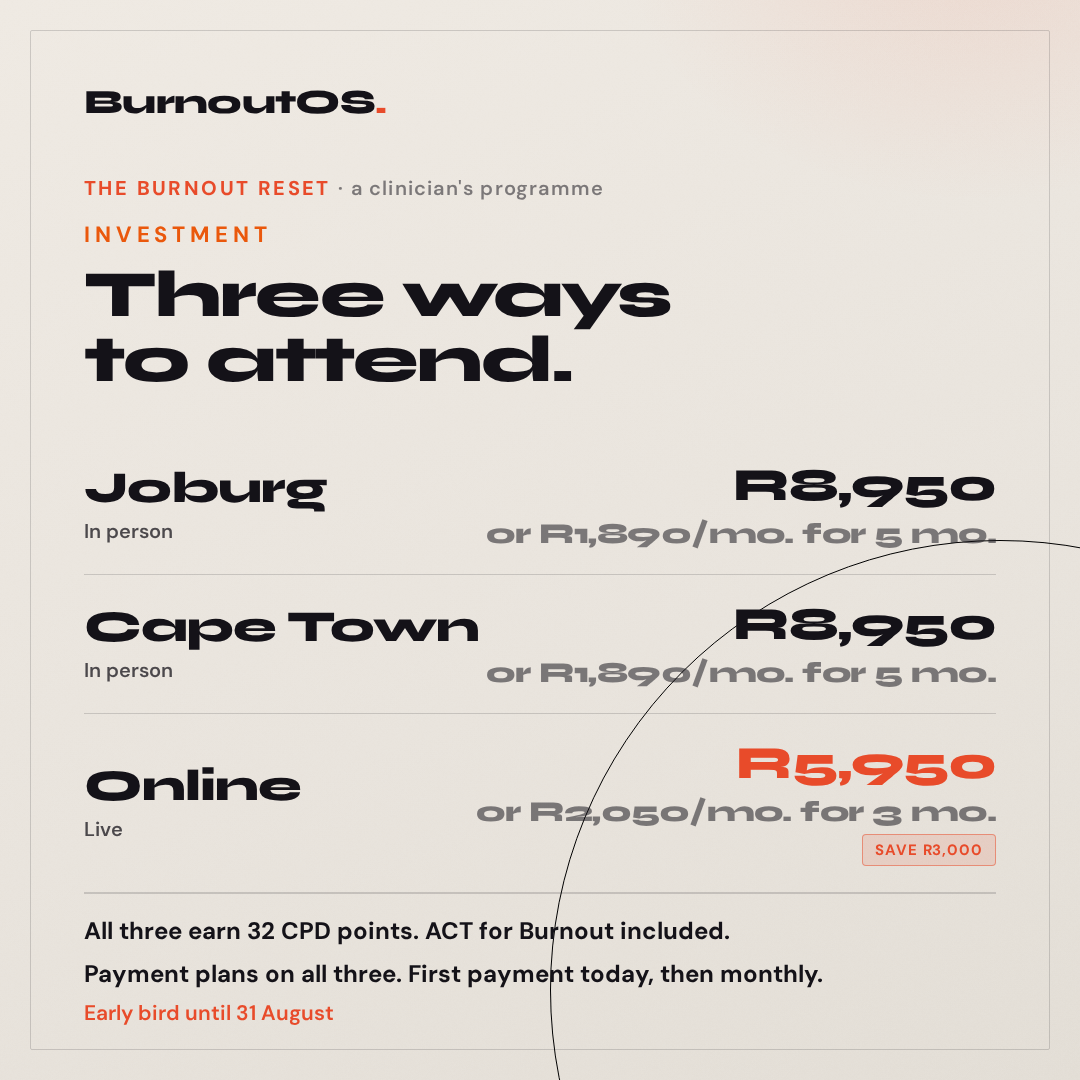
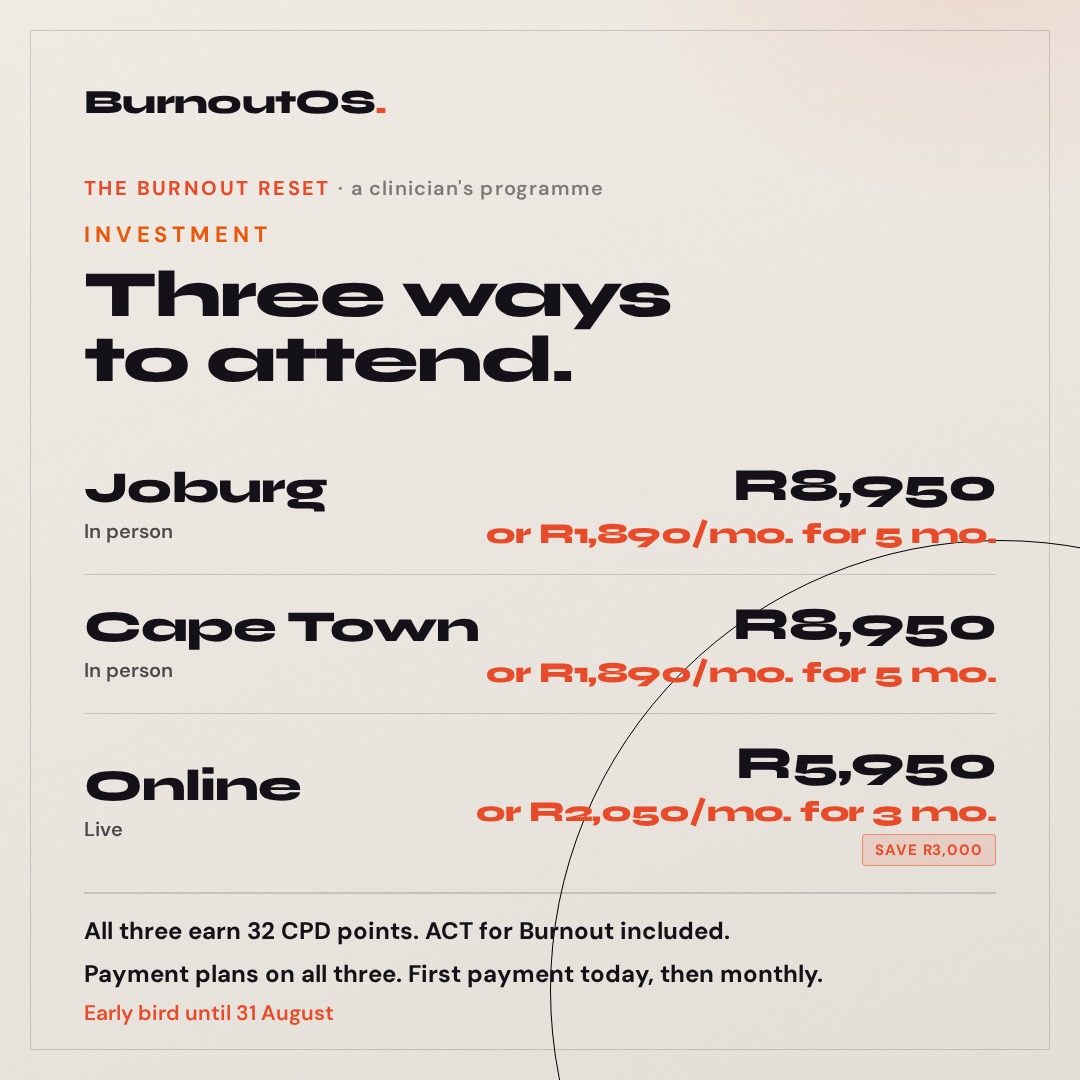
Two-colour pricing: prices in ink, financing in ember
Ember now carries one meaning on this card, the payment plan, so the
financing column reads at a glance without competing with the price.

The online price moves from ember to ink as part of that. Ember cannot
mean both cheapest option and payment plan on the same card without the
online row going entirely orange. The Save R3,000 chip still marks the
online saving and R5,950 is visibly the smaller figure.

Changed region(s): [[0.4278, 0.6722, 0.9167, 0.7639], [0.4583, 0.6111, 0.9167, 0.6417], [0.4583, 0.4889, 0.9167, 0.5194]]

diff --git a/src/posters/sa-carousel-source.html b/src/posters/sa-carousel-source.html
@@ -242,21 +242,21 @@ body{background:#2a2a2a;}
         <div style="font-family:'Syne';font-weight:800;font-size:44px;letter-spacing:-0.025em;color:var(--fg);line-height:1">Joburg</div>
         <div style="font-family:'DM Sans';font-weight:600;font-size:20px;color:var(--fg-mut);margin-top:8px">In person</div>
       </div>
-      <div style="text-align:right"><div style="font-family:'Syne';font-weight:800;font-size:46px;letter-spacing:-0.02em;color:var(--fg);line-height:1">R8,950</div><div style="font-family:'Syne';font-weight:800;font-size:29px;letter-spacing:-0.02em;color:var(--fg-dim);line-height:1;margin-top:11px;white-space:nowrap">or R1,890/mo. for 5 mo.</div></div>
+      <div style="text-align:right"><div style="font-family:'Syne';font-weight:800;font-size:46px;letter-spacing:-0.02em;color:var(--fg);line-height:1">R8,950</div><div style="font-family:'Syne';font-weight:800;font-size:29px;letter-spacing:-0.02em;color:var(--ember);line-height:1;margin-top:11px;white-space:nowrap">or R1,890/mo. for 5 mo.</div></div>
     </div>
     <div style="display:flex;align-items:center;justify-content:space-between;padding:26px 0;border-bottom:1px solid var(--line)">
       <div>
         <div style="font-family:'Syne';font-weight:800;font-size:44px;letter-spacing:-0.025em;color:var(--fg);line-height:1">Cape Town</div>
         <div style="font-family:'DM Sans';font-weight:600;font-size:20px;color:var(--fg-mut);margin-top:8px">In person</div>
       </div>
-      <div style="text-align:right"><div style="font-family:'Syne';font-weight:800;font-size:46px;letter-spacing:-0.02em;color:var(--fg);line-height:1">R8,950</div><div style="font-family:'Syne';font-weight:800;font-size:29px;letter-spacing:-0.02em;color:var(--fg-dim);line-height:1;margin-top:11px;white-space:nowrap">or R1,890/mo. for 5 mo.</div></div>
+      <div style="text-align:right"><div style="font-family:'Syne';font-weight:800;font-size:46px;letter-spacing:-0.02em;color:var(--fg);line-height:1">R8,950</div><div style="font-family:'Syne';font-weight:800;font-size:29px;letter-spacing:-0.02em;color:var(--ember);line-height:1;margin-top:11px;white-space:nowrap">or R1,890/mo. for 5 mo.</div></div>
     </div>
     <div style="display:flex;align-items:center;justify-content:space-between;padding:26px 0;border-bottom:1px solid var(--line)">
       <div>
         <div style="font-family:'Syne';font-weight:800;font-size:44px;letter-spacing:-0.025em;color:var(--fg);line-height:1">Online</div>
         <div style="font-family:'DM Sans';font-weight:600;font-size:20px;color:var(--fg-mut);margin-top:8px">Live</div>
       </div>
-      <div style="text-align:right"><div style="font-family:'Syne';font-weight:800;font-size:46px;letter-spacing:-0.02em;color:var(--ember);line-height:1">R5,950</div><div style="font-family:'Syne';font-weight:800;font-size:29px;letter-spacing:-0.02em;color:var(--fg-dim);line-height:1;margin-top:11px;white-space:nowrap">or R2,050/mo. for 3 mo.</div><div style="display:inline-flex;align-items:center;background:rgba(232,75,42,0.12);border:1.5px solid rgba(232,75,42,0.5);border-radius:4px;padding:5px 12px;margin-top:8px;font-family:'DM Sans';font-weight:700;font-size:15px;letter-spacing:0.06em;text-transform:uppercase;color:var(--ember)">Save R3,000</div></div>
+      <div style="text-align:right"><div style="font-family:'Syne';font-weight:800;font-size:46px;letter-spacing:-0.02em;color:var(--fg);line-height:1">R5,950</div><div style="font-family:'Syne';font-weight:800;font-size:29px;letter-spacing:-0.02em;color:var(--ember);line-height:1;margin-top:11px;white-space:nowrap">or R2,050/mo. for 3 mo.</div><div style="display:inline-flex;align-items:center;background:rgba(232,75,42,0.12);border:1.5px solid rgba(232,75,42,0.5);border-radius:4px;padding:5px 12px;margin-top:8px;font-family:'DM Sans';font-weight:700;font-size:15px;letter-spacing:0.06em;text-transform:uppercase;color:var(--ember)">Save R3,000</div></div>
     </div>
   </div>
   <div style="margin-top:auto;z-index:7">
